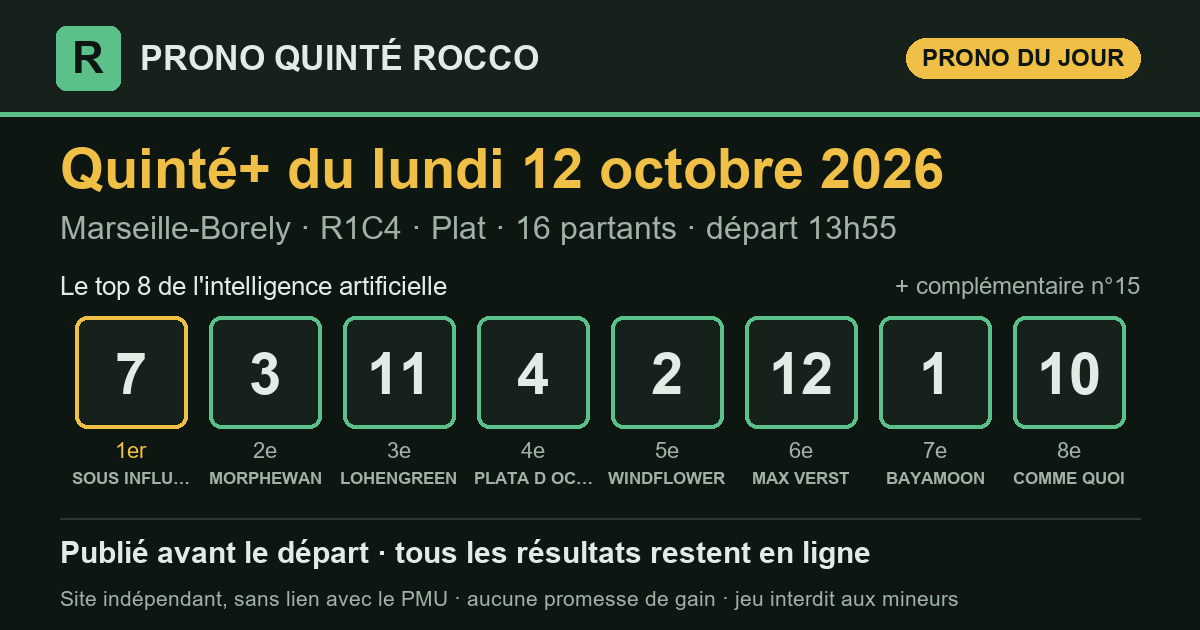
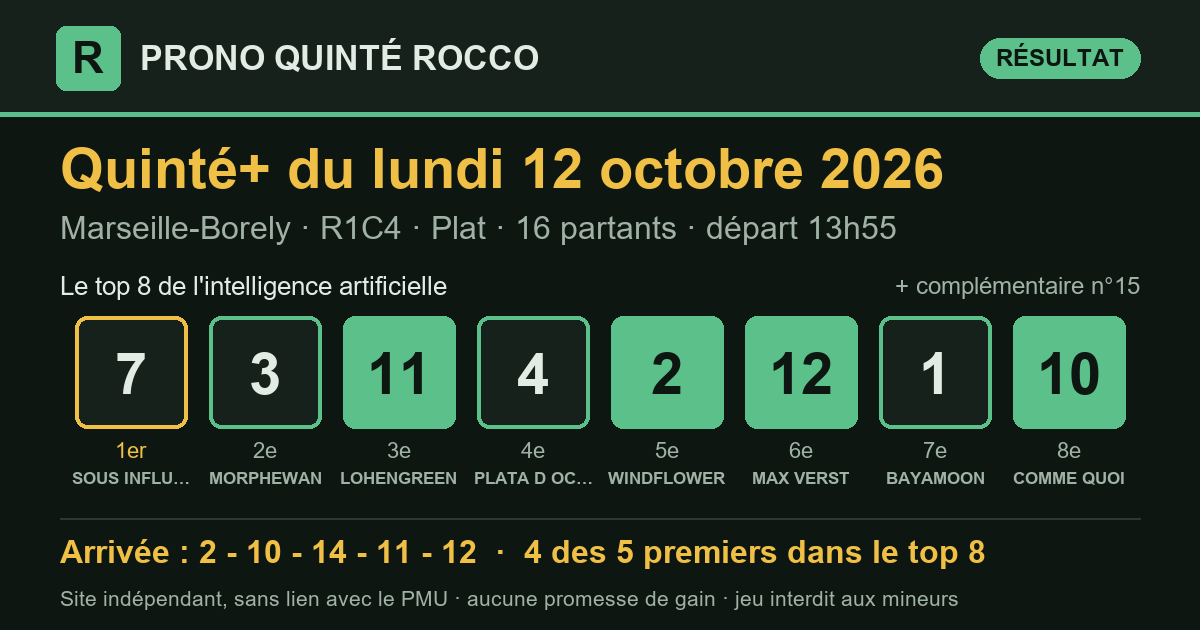
Prono Quinté+ 2026-10-12 Marseille-Borely R1C4 — publié le 12/10/2026 14:09 (heure de Paris)

diff --git a/index.html b/index.html
@@ -13,7 +13,7 @@
 <meta property="og:title" content="Pronostic Quinté+ du lundi 12 octobre 2026 — Prono Quinté Rocco">
 <meta property="og:description" content="Le pronostic du Quinté+ par intelligence artificielle, publié avant le départ, avec tous les résultats et le rendement réel.">
 <meta property="og:url" content="https://roccogp971.github.io/prono-quinte-rocco/">
-<meta property="og:image" content="https://roccogp971.github.io/prono-quinte-rocco/partage/2026-10-12.png?v=f9481140">
+<meta property="og:image" content="https://roccogp971.github.io/prono-quinte-rocco/partage/2026-10-12.png?v=702760f8">
 <meta property="og:image:type" content="image/png">
 <meta property="og:image:width" content="1200">
 <meta property="og:image:height" content="630">
@@ -28,15 +28,15 @@
 </header>
 <main>
 <section class="une" aria-labelledby="t-jour">
-  <p class="surtitre">Quinté+ du jour</p>
+  <p class="surtitre">Dernier Quinté+</p>
   <h1 id="t-jour">Le prono du Quinté+, résultats compris</h1>
   <p class="chapo">Chaque matin, une intelligence artificielle classe les partants du
   Quinté+. Le classement est publié avant le départ, puis comparé à l'arrivée
   officielle. Tous les résultats restent en ligne, les bons comme les mauvais.</p>
   <article class="carte-course">
-  <div class="tete"><h2>Lundi 12 octobre 2026</h2><span class="etat attente">arrivée en attente</span></div>
+  <div class="tete"><h2>Lundi 12 octobre 2026</h2><span class="etat place">4 des 5 premiers dans le top 8</span></div>
   <p class="meta">Marseille-Borely · <strong>R1C4</strong> · Plat · 16 partants · lisibilité <span class="note" aria-label="note 2 sur 5"><i class="on"></i><i class="on"></i><i class=""></i><i class=""></i><i class=""></i></span> 2/5</p>
-  <ol class="partants" aria-label="Classement du prono"><li><span class="rang">1<sup>er</sup></span><span class="tapis ">7</span><span class="nom">SOUS INFLUENCE</span></li><li><span class="rang">2<sup>e</sup></span><span class="tapis ">3</span><span class="nom">MORPHEWAN</span></li><li><span class="rang">3<sup>e</sup></span><span class="tapis ">11</span><span class="nom">LOHENGREEN</span></li><li><span class="rang">4<sup>e</sup></span><span class="tapis ">4</span><span class="nom">PLATA D OCTOBRE</span></li><li><span class="rang">5<sup>e</sup></span><span class="tapis ">2</span><span class="nom">WINDFLOWER</span></li><li><span class="rang">6<sup>e</sup></span><span class="tapis ">12</span><span class="nom">MAX VERST</span></li><li><span class="rang">7<sup>e</sup></span><span class="tapis ">1</span><span class="nom">BAYAMOON</span></li><li><span class="rang">8<sup>e</sup></span><span class="tapis ">10</span><span class="nom">COMME QUOI</span></li><li><span class="rang">compl.</span><span class="tapis creux">15</span><span class="nom">NOUS Y SOMMES</span></li></ol>
+  <ol class="partants" aria-label="Classement du prono"><li><span class="rang">1<sup>er</sup></span><span class="tapis ">7</span><span class="nom">SOUS INFLUENCE</span></li><li><span class="rang">2<sup>e</sup></span><span class="tapis ">3</span><span class="nom">MORPHEWAN</span></li><li><span class="rang">3<sup>e</sup></span><span class="tapis plein">11</span><span class="nom">LOHENGREEN</span></li><li><span class="rang">4<sup>e</sup></span><span class="tapis ">4</span><span class="nom">PLATA D OCTOBRE</span></li><li><span class="rang">5<sup>e</sup></span><span class="tapis plein">2</span><span class="nom">WINDFLOWER</span></li><li><span class="rang">6<sup>e</sup></span><span class="tapis plein">12</span><span class="nom">MAX VERST</span></li><li><span class="rang">7<sup>e</sup></span><span class="tapis ">1</span><span class="nom">BAYAMOON</span></li><li><span class="rang">8<sup>e</sup></span><span class="tapis plein">10</span><span class="nom">COMME QUOI</span></li><li><span class="rang">compl.</span><span class="tapis creux">15</span><span class="nom">NOUS Y SOMMES</span></li></ol>
   <div class="pied-carte"><span>Analysé le 12/10 à 09:40 · en ligne le 12/10 à 09:42 · départ à 13:55 (heure de Paris)</span><span><a href="quinte/2026-10-12.html">Détail de la course</a></span></div>
 </article>
   <div class="legende"><span><span class="tapis plein petit">4</span> numéro dans les 5 premiers</span>
@@ -53,7 +53,7 @@
 </section>
 <section class="bilan" aria-labelledby="t-bilan">
   <h2 id="t-bilan">Le bilan depuis le 8 septembre 2026</h2>
-  <div class="tableau chiffres"><div class="case"><span class="gros ">74 %</span><span class="lib">des arrivants trouvés dans le top 8</span><span class="ref">un top 8 tiré au hasard : 52 %</span></div><div class="case"><span class="gros ">85 %</span><span class="lib">des gagnants présents dans le top 8</span><span class="ref"></span></div><div class="case"><span class="gros ">55 %</span><span class="lib">1er du prono placé</span><span class="ref">sur 33 Quintés</span></div><div class="case"><span class="gros perte">0,99 €</span><span class="lib">rendus pour 1 € joué placé sur le 1er</span><span class="ref">rapports officiels PMU</span></div><div class="case"><span class="gros perte">0,42 €</span><span class="lib">rendus pour 1 € joué en Quinté+ combiné top 8</span><span class="ref">56 combinaisons, rapports PMU.fr, sur 33 Quintés</span></div></div>
+  <div class="tableau chiffres"><div class="case"><span class="gros ">74 %</span><span class="lib">des arrivants trouvés dans le top 8</span><span class="ref">un top 8 tiré au hasard : 52 %</span></div><div class="case"><span class="gros ">85 %</span><span class="lib">des gagnants présents dans le top 8</span><span class="ref"></span></div><div class="case"><span class="gros ">55 %</span><span class="lib">1er du prono placé</span><span class="ref">sur 33 Quintés</span></div><div class="case"><span class="gros perte">0,99 €</span><span class="lib">rendus pour 1 € joué placé sur le 1er</span><span class="ref">rapports officiels PMU</span></div><div class="case"><span class="gros perte">0,43 €</span><span class="lib">rendus pour 1 € joué en Quinté+ combiné top 8</span><span class="ref">56 combinaisons, rapports PMU.fr, sur 34 Quintés</span></div></div>
   <p class="avertissement">Moins de 1 € rendu pour 1 € joué : suivre ce prono à la lettre fait <strong>perdre de l'argent</strong> sur cette période. Il sert à analyser une course, pas à promettre un gain.</p>
 </section>
 </main>

diff --git a/quinte/2026-10-12.html b/quinte/2026-10-12.html
@@ -13,7 +13,7 @@
 <meta property="og:title" content="Pronostic Quinté+ du lundi 12 octobre 2026 à Marseille-Borely — Prono Quinté Rocco">
 <meta property="og:description" content="Prono Quinté+ du lundi 12 octobre 2026 (Marseille-Borely) : top 8, arrivée officielle et rapports PMU.fr.">
 <meta property="og:url" content="https://roccogp971.github.io/prono-quinte-rocco/quinte/2026-10-12.html">
-<meta property="og:image" content="https://roccogp971.github.io/prono-quinte-rocco/partage/2026-10-12.png?v=f9481140">
+<meta property="og:image" content="https://roccogp971.github.io/prono-quinte-rocco/partage/2026-10-12.png?v=702760f8">
 <meta property="og:image:type" content="image/png">
 <meta property="og:image:width" content="1200">
 <meta property="og:image:height" content="630">
@@ -32,11 +32,19 @@
   <h1>Pronostic Quinté+ du lundi 12 octobre 2026</h1>
   <p class="chapo">Marseille-Borely · R1C4 · Plat · 16 partants</p>
   <article class="carte-course">
-  <div class="tete"><h2>Le prono : top 8 et complémentaire</h2><span class="etat attente">arrivée en attente</span></div>
+  <div class="tete"><h2>Le prono : top 8 et complémentaire</h2><span class="etat place">4 des 5 premiers dans le top 8</span></div>
   <p class="meta">Marseille-Borely · <strong>R1C4</strong> · Plat · 16 partants · lisibilité <span class="note" aria-label="note 2 sur 5"><i class="on"></i><i class="on"></i><i class=""></i><i class=""></i><i class=""></i></span> 2/5</p>
-  <ol class="partants" aria-label="Classement du prono"><li><span class="rang">1<sup>er</sup></span><span class="tapis ">7</span><span class="nom">SOUS INFLUENCE</span></li><li><span class="rang">2<sup>e</sup></span><span class="tapis ">3</span><span class="nom">MORPHEWAN</span></li><li><span class="rang">3<sup>e</sup></span><span class="tapis ">11</span><span class="nom">LOHENGREEN</span></li><li><span class="rang">4<sup>e</sup></span><span class="tapis ">4</span><span class="nom">PLATA D OCTOBRE</span></li><li><span class="rang">5<sup>e</sup></span><span class="tapis ">2</span><span class="nom">WINDFLOWER</span></li><li><span class="rang">6<sup>e</sup></span><span class="tapis ">12</span><span class="nom">MAX VERST</span></li><li><span class="rang">7<sup>e</sup></span><span class="tapis ">1</span><span class="nom">BAYAMOON</span></li><li><span class="rang">8<sup>e</sup></span><span class="tapis ">10</span><span class="nom">COMME QUOI</span></li><li><span class="rang">compl.</span><span class="tapis creux">15</span><span class="nom">NOUS Y SOMMES</span></li></ol>
+  <ol class="partants" aria-label="Classement du prono"><li><span class="rang">1<sup>er</sup></span><span class="tapis ">7</span><span class="nom">SOUS INFLUENCE</span></li><li><span class="rang">2<sup>e</sup></span><span class="tapis ">3</span><span class="nom">MORPHEWAN</span></li><li><span class="rang">3<sup>e</sup></span><span class="tapis plein">11</span><span class="nom">LOHENGREEN</span></li><li><span class="rang">4<sup>e</sup></span><span class="tapis ">4</span><span class="nom">PLATA D OCTOBRE</span></li><li><span class="rang">5<sup>e</sup></span><span class="tapis plein">2</span><span class="nom">WINDFLOWER</span></li><li><span class="rang">6<sup>e</sup></span><span class="tapis plein">12</span><span class="nom">MAX VERST</span></li><li><span class="rang">7<sup>e</sup></span><span class="tapis ">1</span><span class="nom">BAYAMOON</span></li><li><span class="rang">8<sup>e</sup></span><span class="tapis plein">10</span><span class="nom">COMME QUOI</span></li><li><span class="rang">compl.</span><span class="tapis creux">15</span><span class="nom">NOUS Y SOMMES</span></li></ol>
   <div class="pied-carte"><span>Analysé le 12/10 à 09:40 · en ligne le 12/10 à 09:42 · départ à 13:55 (heure de Paris)</span><span></span></div>
 </article>
+<section class="carte-course" aria-labelledby="t-arr">
+  <div class="tete"><h2 id="t-arr">Arrivée officielle</h2></div>
+  <div class="rangee"><span class="tapis plein" title="1er">2</span><span class="tapis plein" title="2e">10</span><span class="tapis creux" title="3e">14</span><span class="tapis plein" title="4e">11</span><span class="tapis plein" title="5e">12</span></div>
+  <div class="deux">
+    <div><h3>Ce qu'aurait rendu le prono</h3><dl class="kv"><dt>1 € placé sur le 1er (n°7)</dt><dd>rapport manquant</dd><dt>1 € gagnant sur le 1er</dt><dd>rapport manquant</dd><dt>Quinté+ combiné top 8 (mise 112 €)</dt><dd>68,00 €</dd><dt>dont</dt><dd>Bonus 4sur5 × 4</dd></dl></div>
+    <div><h3>Rapports officiels</h3><dl class="kv"><dt>e-Quinté+ Ordre (2 €)</dt><dd>65 100,20 €</dd><dt>e-Quinté+ Désordre (2 €)</dt><dd>1 017,60 €</dd><dt>e-Bonus 4sur5 (2 €)</dt><dd>17,00 €</dd><dt>e-Bonus 3 (2 €)</dt><dd>14,20 €</dd></dl></div>
+  </div>
+</section>
 </section>
 </main>
 <footer class="pied">

diff --git a/partants.html b/partants.html
@@ -49,17 +49,17 @@
 </tr><tr>
   <td><span class="tapis petit">3</span></td>
   <td><span class="cheval">MORPHEWAN</span><span class="sous">T.PICCONE · P.COTTIER</span></td>
-  <td class="cote num">8,7</td>
+  <td class="cote num">6,6</td>
   <td class="ia"><span class="etat place">2<sup>e</sup></span></td>
 </tr><tr>
   <td><span class="tapis petit">4</span></td>
   <td><span class="cheval">PLATA D OCTOBRE</span><span class="sous">H.BOUTIN · MME N.SIGAUD</span></td>
-  <td class="cote num">12,0</td>
+  <td class="cote num">18,0</td>
   <td class="ia"><span class="etat place">4<sup>e</sup></span></td>
 </tr><tr>
   <td><span class="tapis petit">5</span></td>
   <td><span class="cheval">LINFASOMMER</span><span class="sous">A.HAMELIN · M.PITART</span></td>
-  <td class="cote num">27,0</td>
+  <td class="cote num">24,0</td>
   <td class="ia">—</td>
 </tr><tr>
   <td><span class="tapis petit">6</span></td>
@@ -69,57 +69,57 @@
 </tr><tr>
   <td><span class="tapis petit">7</span></td>
   <td><span class="cheval">SOUS INFLUENCE</span><span class="sous">M.VELON · C.ESCUDER</span></td>
-  <td class="cote num">12,0</td>
+  <td class="cote num">13,0</td>
   <td class="ia"><span class="etat place">1<sup>er</sup></span></td>
 </tr><tr>
   <td><span class="tapis petit">8</span></td>
   <td><span class="cheval">AMEDRAS</span><span class="sous">D.PROVOST · MME L.SALTON</span></td>
-  <td class="cote num">25,0</td>
+  <td class="cote num">21,0</td>
   <td class="ia">—</td>
 </tr><tr>
   <td><span class="tapis petit">9</span></td>
   <td><span class="cheval">STARNBERG</span><span class="sous">J.NICOLEAU · C.ESCUDER</span></td>
-  <td class="cote num">21,0</td>
+  <td class="cote num">20,0</td>
   <td class="ia">—</td>
 </tr><tr>
   <td><span class="tapis petit">10</span></td>
   <td><span class="cheval">COMME QUOI</span><span class="sous">S.PASQUIER · N.PERRET (S)</span></td>
-  <td class="cote num">9,0</td>
+  <td class="cote num">10,0</td>
   <td class="ia"><span class="etat place">8<sup>e</sup></span></td>
 </tr><tr>
   <td><span class="tapis petit">11</span></td>
   <td><span class="cheval">LOHENGREEN</span><span class="sous">M.GRANDIN · C.ESCUDER</span></td>
-  <td class="cote num">8,2</td>
+  <td class="cote num">8,7</td>
   <td class="ia"><span class="etat place">3<sup>e</sup></span></td>
 </tr><tr>
   <td><span class="tapis petit">12</span></td>
   <td><span class="cheval">MAX VERST</span><span class="sous">A.ORANI · R.FRADET (S)</span></td>
-  <td class="cote num">13,0</td>
+  <td class="cote num">11,0</td>
   <td class="ia"><span class="etat place">6<sup>e</sup></span></td>
 </tr><tr>
   <td><span class="tapis petit">13</span></td>
   <td><span class="cheval">GOLD PLAYER</span><span class="sous">I.MENDIZABAL · F.FORESI</span></td>
-  <td class="cote num">26,0</td>
+  <td class="cote num">29,0</td>
   <td class="ia">—</td>
 </tr><tr>
   <td><span class="tapis petit">14</span></td>
   <td><span class="cheval">METS LE FEU</span><span class="sous">E.HARDOUIN · M.PITART</span></td>
-  <td class="cote num">13,0</td>
+  <td class="cote num">17,0</td>
   <td class="ia">—</td>
 </tr><tr>
   <td><span class="tapis petit">15</span></td>
   <td><span class="cheval">NOUS Y SOMMES</span><span class="sous">T.TRULLIER · N.PERRET (S)</span></td>
-  <td class="cote num">12,0</td>
+  <td class="cote num">10,0</td>
   <td class="ia"><span class="etat place">compl.</span></td>
 </tr><tr>
   <td><span class="tapis petit">16</span></td>
   <td><span class="cheval">TREATWOOD</span><span class="sous">L.BOISSEAU · N.BELLANGER (S)</span></td>
-  <td class="cote num">31,0</td>
+  <td class="cote num">38,0</td>
   <td class="ia">—</td>
 </tr></tbody>
   </table></div>
   <p class="meta">Le rang du prono IA est celui publié sur ce site. Sous chaque cheval : jockey · entraîneur. Partants et cotes : programme
-  officiel du PMU, lu le 12/10 à 09:42 (heure de Paris). NP = non-partant.</p>
+  officiel du PMU, lu le 12/10 à 14:09 (heure de Paris). NP = non-partant.</p>
 </section>
 </main>
 <footer class="pied">

diff --git a/resultats.html b/resultats.html
@@ -36,8 +36,8 @@
     <tbody><tr>
   <td class="c-date"><a href="quinte/2026-10-12.html">12/10</a></td>
   <td class="c-course">Marseille-Borely<br><span class="meta">R1C4 · Plat</span></td>
-  <td data-label="Top 8 du prono"><div class="rangee"><span class="tapis petit">7</span><span class="tapis petit">3</span><span class="tapis petit">11</span><span class="tapis petit">4</span><span class="tapis petit">2</span><span class="tapis petit">12</span><span class="tapis petit">1</span><span class="tapis petit">10</span></div></td><td data-label="Arrivée"><span class="etat attente">en attente</span></td>
-  <td class="num" data-label="Trouvés">—</td><td data-label="1er du prono"><span class="etat attente">—</span></td><td class="mont" data-label="Quinté+ top 8 (mise 112 €)">—</td>
+  <td data-label="Top 8 du prono"><div class="rangee"><span class="tapis petit">7</span><span class="tapis petit">3</span><span class="tapis plein petit">11</span><span class="tapis petit">4</span><span class="tapis plein petit">2</span><span class="tapis plein petit">12</span><span class="tapis petit">1</span><span class="tapis plein petit">10</span></div></td><td data-label="Arrivée"><div class="rangee"><span class="tapis plein petit" title="1er">2</span><span class="tapis plein petit" title="2e">10</span><span class="tapis creux petit" title="3e">14</span><span class="tapis plein petit" title="4e">11</span><span class="tapis plein petit" title="5e">12</span></div></td>
+  <td class="num" data-label="Trouvés">4/5</td><td data-label="1er du prono"><span class="etat non">non placé</span></td><td class="mont perte" data-label="Quinté+ top 8 (mise 112 €)">68,00 €</td>
 </tr><tr>
   <td class="c-date"><a href="quinte/2026-10-11.html">11/10</a></td>
   <td class="c-course">Auteuil<br><span class="meta">R1C3 · Steeple-chase</span></td>
@@ -208,7 +208,7 @@
 </section>
 <section class="bilan" aria-labelledby="t-bilan">
   <h2 id="t-bilan">Le bilan depuis le 8 septembre 2026</h2>
-  <div class="tableau chiffres"><div class="case"><span class="gros ">74 %</span><span class="lib">des arrivants trouvés dans le top 8</span><span class="ref">un top 8 tiré au hasard : 52 %</span></div><div class="case"><span class="gros ">85 %</span><span class="lib">des gagnants présents dans le top 8</span><span class="ref"></span></div><div class="case"><span class="gros ">55 %</span><span class="lib">1er du prono placé</span><span class="ref">sur 33 Quintés</span></div><div class="case"><span class="gros perte">0,99 €</span><span class="lib">rendus pour 1 € joué placé sur le 1er</span><span class="ref">rapports officiels PMU</span></div><div class="case"><span class="gros perte">0,42 €</span><span class="lib">rendus pour 1 € joué en Quinté+ combiné top 8</span><span class="ref">56 combinaisons, rapports PMU.fr, sur 33 Quintés</span></div></div>
+  <div class="tableau chiffres"><div class="case"><span class="gros ">74 %</span><span class="lib">des arrivants trouvés dans le top 8</span><span class="ref">un top 8 tiré au hasard : 52 %</span></div><div class="case"><span class="gros ">85 %</span><span class="lib">des gagnants présents dans le top 8</span><span class="ref"></span></div><div class="case"><span class="gros ">55 %</span><span class="lib">1er du prono placé</span><span class="ref">sur 33 Quintés</span></div><div class="case"><span class="gros perte">0,99 €</span><span class="lib">rendus pour 1 € joué placé sur le 1er</span><span class="ref">rapports officiels PMU</span></div><div class="case"><span class="gros perte">0,43 €</span><span class="lib">rendus pour 1 € joué en Quinté+ combiné top 8</span><span class="ref">56 combinaisons, rapports PMU.fr, sur 34 Quintés</span></div></div>
   <p class="avertissement">Moins de 1 € rendu pour 1 € joué : suivre ce prono à la lettre fait <strong>perdre de l'argent</strong> sur cette période. Il sert à analyser une course, pas à promettre un gain.</p>
 </section>
 </main>
